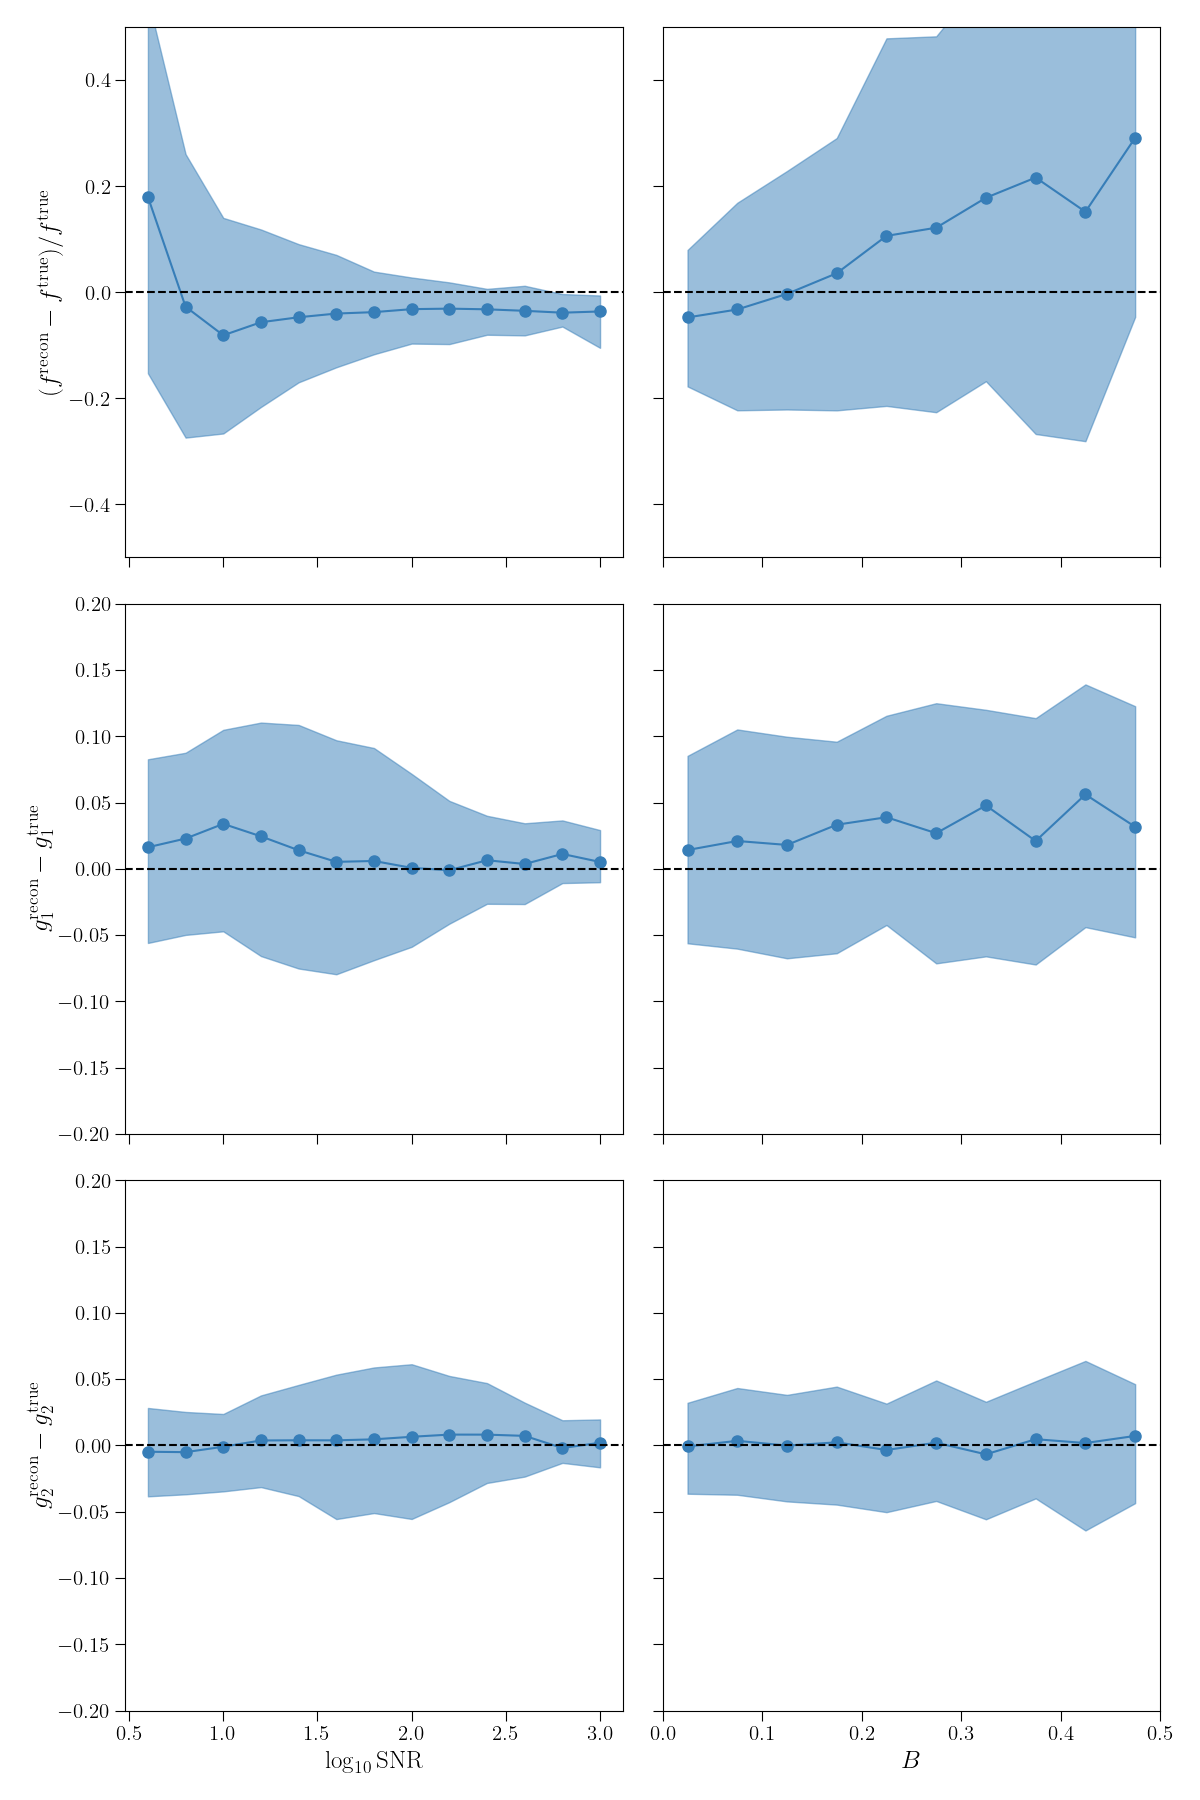
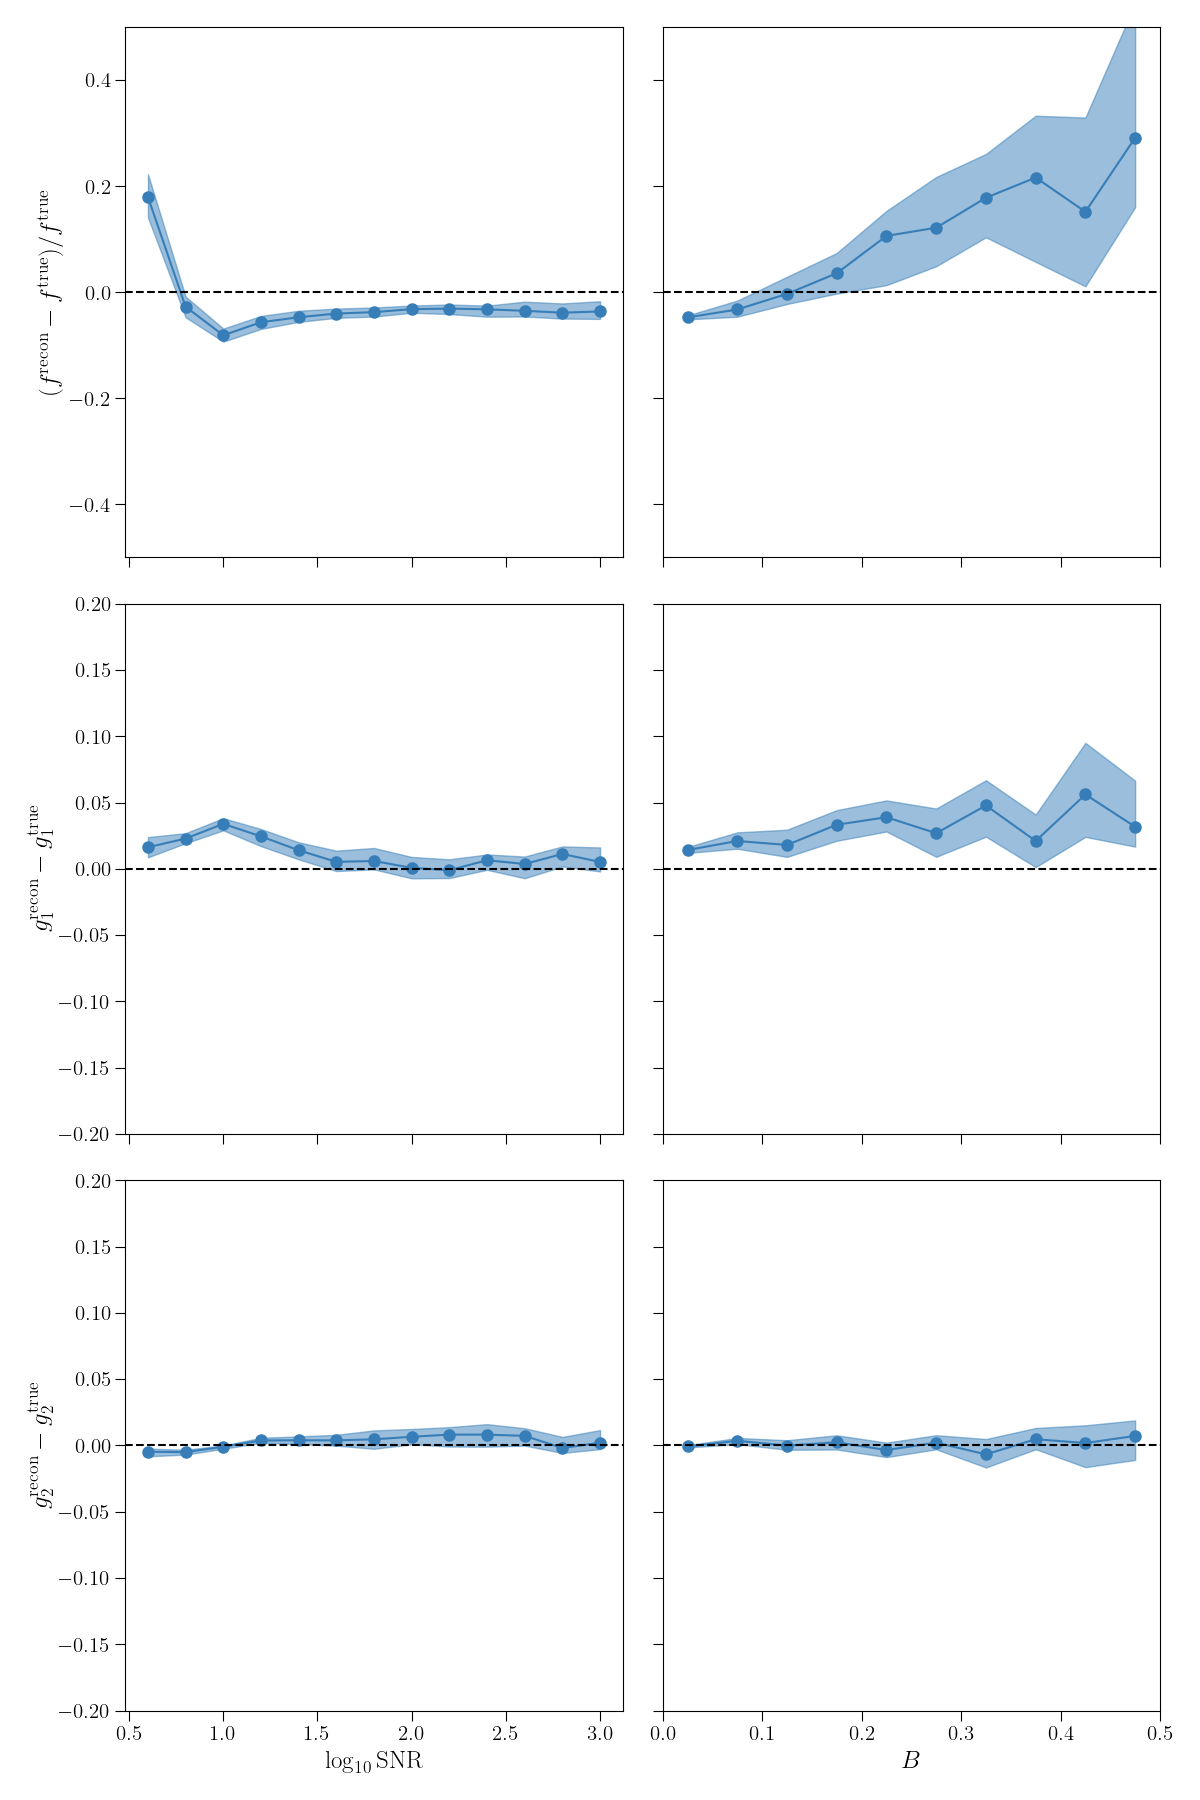
use mean or median when computing scatter shade plot, but use boostrap 95% confidence interval to plot as the error

diff --git a/case_studies/galsim_galaxies/scripts_figures/blend_figures.py b/case_studies/galsim_galaxies/scripts_figures/blend_figures.py
@@ -226,14 +226,14 @@ class BlendSimulationFigure(BlissFigure):
         xlabel = r"$\log_{10} \rm SNR$"
         ylabel = r"\rm $(f^{\rm recon} - f^{\rm true}) / f^{\rm true}$"
         x, y = np.log10(snr), (efluxes - tfluxes) / tfluxes
-        scatter_shade_plot(ax1, x, y, xlims, delta=0.2)
+        scatter_shade_plot(ax1, x, y, xlims, delta=0.2, use_boot=True)
         ax1.set_ylabel(ylabel)
         ax1.axhline(0, ls="--", color="k")
         ax1.set_ylim(-0.5, 0.5)
 
         xlims = (0, 0.5)
         x, y = blendedness, (efluxes - tfluxes) / tfluxes
-        scatter_shade_plot(ax2, x, y, xlims, delta=0.05)
+        scatter_shade_plot(ax2, x, y, xlims, delta=0.05, use_boot=True)
         ax2.axhline(0, ls="--", color="k")
         ax2.set_ylim(-0.5, 0.5)
 
@@ -244,14 +244,14 @@ class BlendSimulationFigure(BlissFigure):
         xlims = (0.5, 3)
         ylabel = r"$g_{1}^{\rm recon} - g_{1}^{\rm true}$"
         x, y = np.log10(snr)[mask], (pe1 - te1)[mask]
-        scatter_shade_plot(ax3, x, y, xlims, delta=0.2)
+        scatter_shade_plot(ax3, x, y, xlims, delta=0.2, use_boot=True)
         ax3.set_ylabel(ylabel)
         ax3.axhline(0, ls="--", color="k")
         ax3.set_ylim(-0.2, 0.2)
 
         xlims = (0, 0.5)
         x, y = blendedness[mask], (pe1 - te1)[mask]
-        scatter_shade_plot(ax4, x, y, xlims, delta=0.05)
+        scatter_shade_plot(ax4, x, y, xlims, delta=0.05, use_boot=True)
         ax4.axhline(0, ls="--", color="k")
         ax4.set_ylim(-0.2, 0.2)
 
@@ -260,7 +260,7 @@ class BlendSimulationFigure(BlissFigure):
         xlabel = r"$\log_{10} \rm SNR$"
         ylabel = r"$g_{2}^{\rm recon} - g_{2}^{\rm true}$"
         x, y = np.log10(snr)[mask], (pe2 - te2)[mask]
-        scatter_shade_plot(ax5, x, y, xlims, delta=0.2)
+        scatter_shade_plot(ax5, x, y, xlims, delta=0.2, use_boot=True)
         ax5.set_xlabel(xlabel)
         ax5.set_ylabel(ylabel)
         ax5.set_xticks(xticks)
@@ -271,7 +271,7 @@ class BlendSimulationFigure(BlissFigure):
         xlims = (0, 0.5)
         xlabel = "$B$"
         x, y = blendedness[mask], (pe2 - te2)[mask]
-        scatter_shade_plot(ax6, x, y, xlims=xlims, delta=0.05)
+        scatter_shade_plot(ax6, x, y, xlims=xlims, delta=0.05, use_boot=True)
         ax6.set_xlabel(xlabel)
         ax6.set_xticks(xticks)
         ax6.axhline(0, ls="--", color="k")

diff --git a/bliss/plotting.py b/bliss/plotting.py
@@ -225,16 +225,26 @@ def add_loc_legend(ax: mpl.axes.Axes, labels: list, cmap1="cool", cmap2="bwr", s
     )
 
 
+def _bootstrap_quantiles(x, fnc, qs, n_boots=10000) -> float:
+    """Return boostrap error of function `fnc` applied to array `x`."""
+    x_boot = np.random.choice(x, size=(n_boots, len(x)), replace=True)
+    x_hat = fnc(x_boot, axis=-1)
+    return np.quantile(x_hat, qs[0]), np.quantile(x_hat, qs[1])
+
+
 def scatter_shade_plot(
     ax: Axes,
     x: np.ndarray,
     y: np.ndarray,
     xlims: Tuple[float, float],
     delta: float,
-    qs: Tuple[float, float] = (0.25, 0.75),
     color: str = "#377eb8",
     alpha: float = 0.5,
+    qs: Tuple[float, float] = (0.025, 0.975),  # 95% confidence interval
+    use_boot=False,
+    use_mean=False,
 ):
+    assert x.ndim == y.ndim == 1
     xbins = np.arange(xlims[0], xlims[1], delta)
 
     xs = np.zeros(len(xbins))
@@ -252,8 +262,13 @@ def scatter_shade_plot(
             yqs[i] = (np.nan, np.nan)
             continue
 
-        ys[i] = np.median(y_bin)
-        yqs[i, :] = np.quantile(y_bin, qs[0]), np.quantile(y_bin, qs[1])
+        _fnc = np.mean if use_mean else np.median
+
+        ys[i] = _fnc(y_bin)
+        if use_boot:
+            yqs[i, :] = _bootstrap_quantiles(y_bin, _fnc, qs)
+        else:
+            yqs[i, :] = np.quantile(y_bin, qs[0]), np.quantile(y_bin, qs[1])
 
     ax.plot(xs, ys, marker="o", c=color, linestyle="-")
     ax.fill_between(xs, yqs[:, 0], yqs[:, 1], color=color, alpha=alpha)

diff --git a/case_studies/galsim_galaxies/scripts_figures/ae_figures.py b/case_studies/galsim_galaxies/scripts_figures/ae_figures.py
@@ -103,7 +103,7 @@ class AutoEncoderFigures(BlissFigure):
         # fluxes
         true_fluxes, recon_fluxes = meas["true_fluxes"], meas["recon_fluxes"]
         x, y = np.log10(snr), (recon_fluxes - true_fluxes) / true_fluxes
-        scatter_shade_plot(ax1, x, y, xlims, delta=0.2)
+        scatter_shade_plot(ax1, x, y, xlims, delta=0.2, use_boot=True)
         ax1.set_xlim(xlims)
         ax1.set_xlabel(xlabel)
         ax1.set_ylabel(r"$(f^{\rm recon} - f^{\rm true}) / f^{\rm true}$")
@@ -113,7 +113,7 @@ class AutoEncoderFigures(BlissFigure):
         # ellipticities
         true_ellip1, recon_ellip1 = meas["true_ellips"][:, 0], meas["recon_ellips"][:, 0]
         x, y = np.log10(snr), recon_ellip1 - true_ellip1
-        scatter_shade_plot(ax2, x, y, xlims, delta=0.2)
+        scatter_shade_plot(ax2, x, y, xlims, delta=0.2, use_boot=True)
         ax2.set_xlim(xlims)
         ax2.set_xlabel(xlabel)
         ax2.set_ylabel(r"$g_{1}^{\rm recon} - g_{1}^{\rm true}$")
@@ -123,7 +123,7 @@ class AutoEncoderFigures(BlissFigure):
 
         true_ellip2, recon_ellip2 = meas["true_ellips"][:, 1], meas["recon_ellips"][:, 1]
         x, y = np.log10(snr), recon_ellip2 - true_ellip2
-        scatter_shade_plot(ax3, x, y, xlims, delta=0.2)
+        scatter_shade_plot(ax3, x, y, xlims, delta=0.2, use_boot=True)
         ax3.set_xlim(xlims)
         ax3.set_xlabel(xlabel)
         ax3.set_ylabel(r"$g_{2}^{\rm recon} - g_{2}^{\rm true}$")
